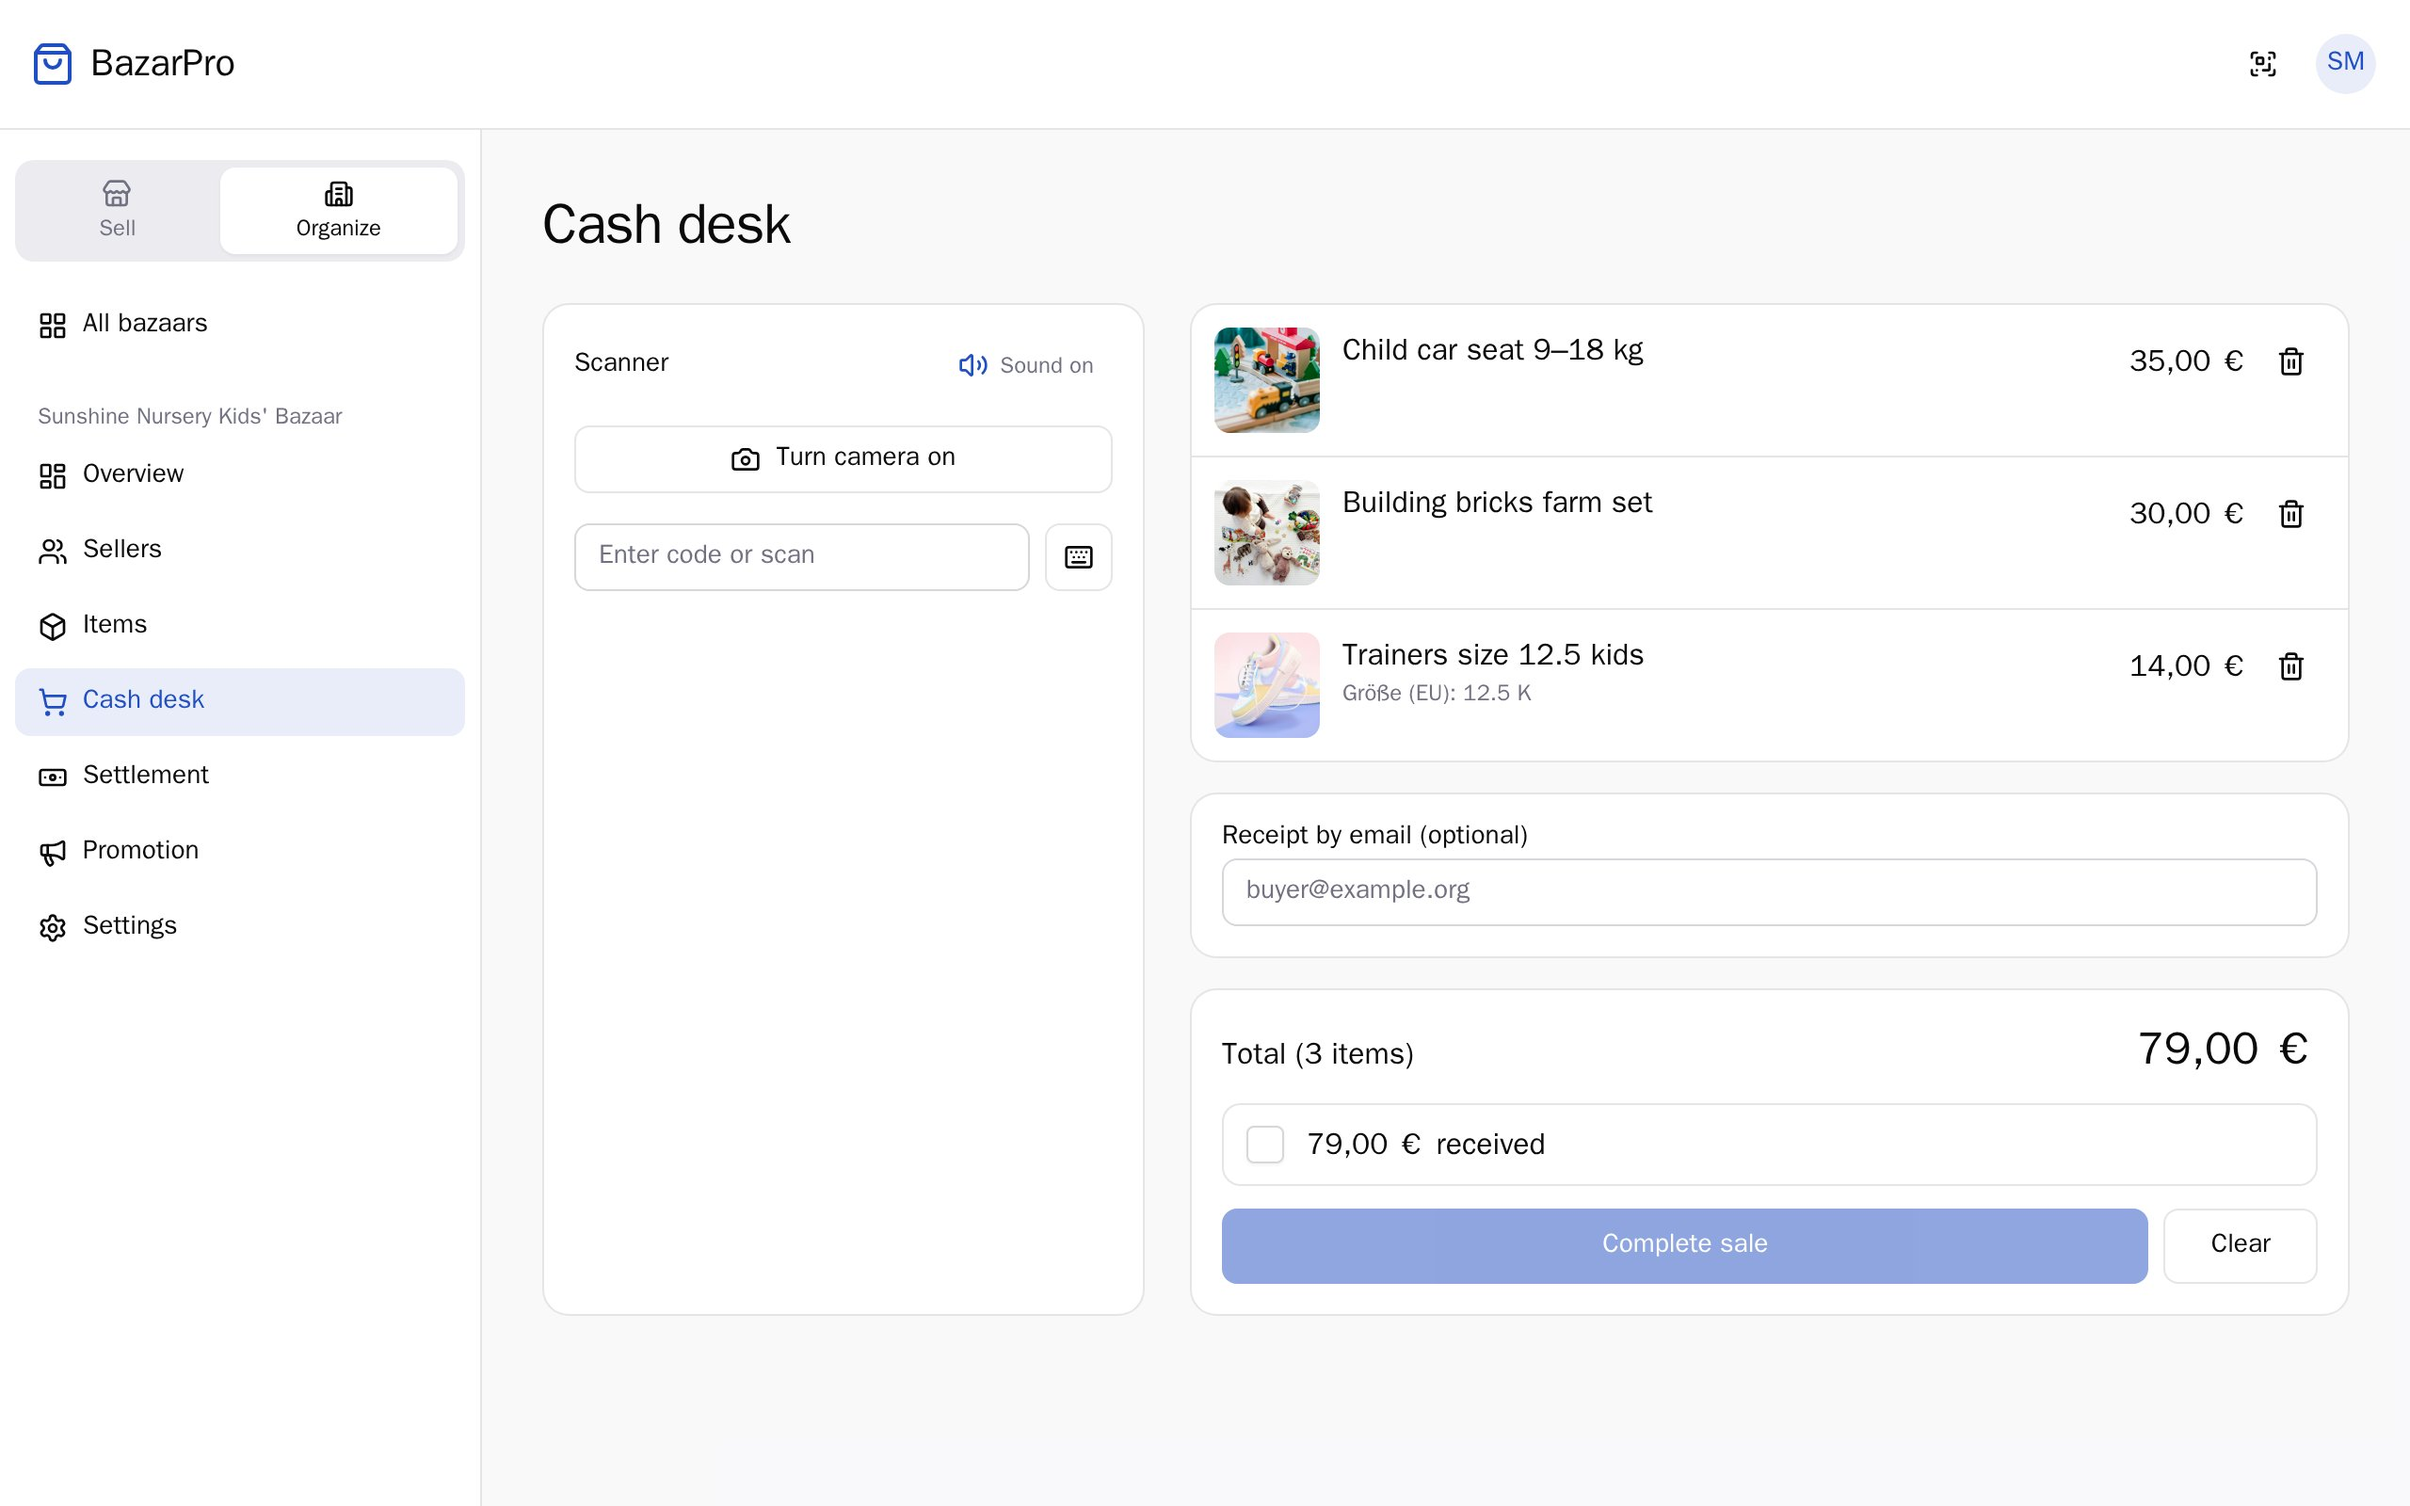
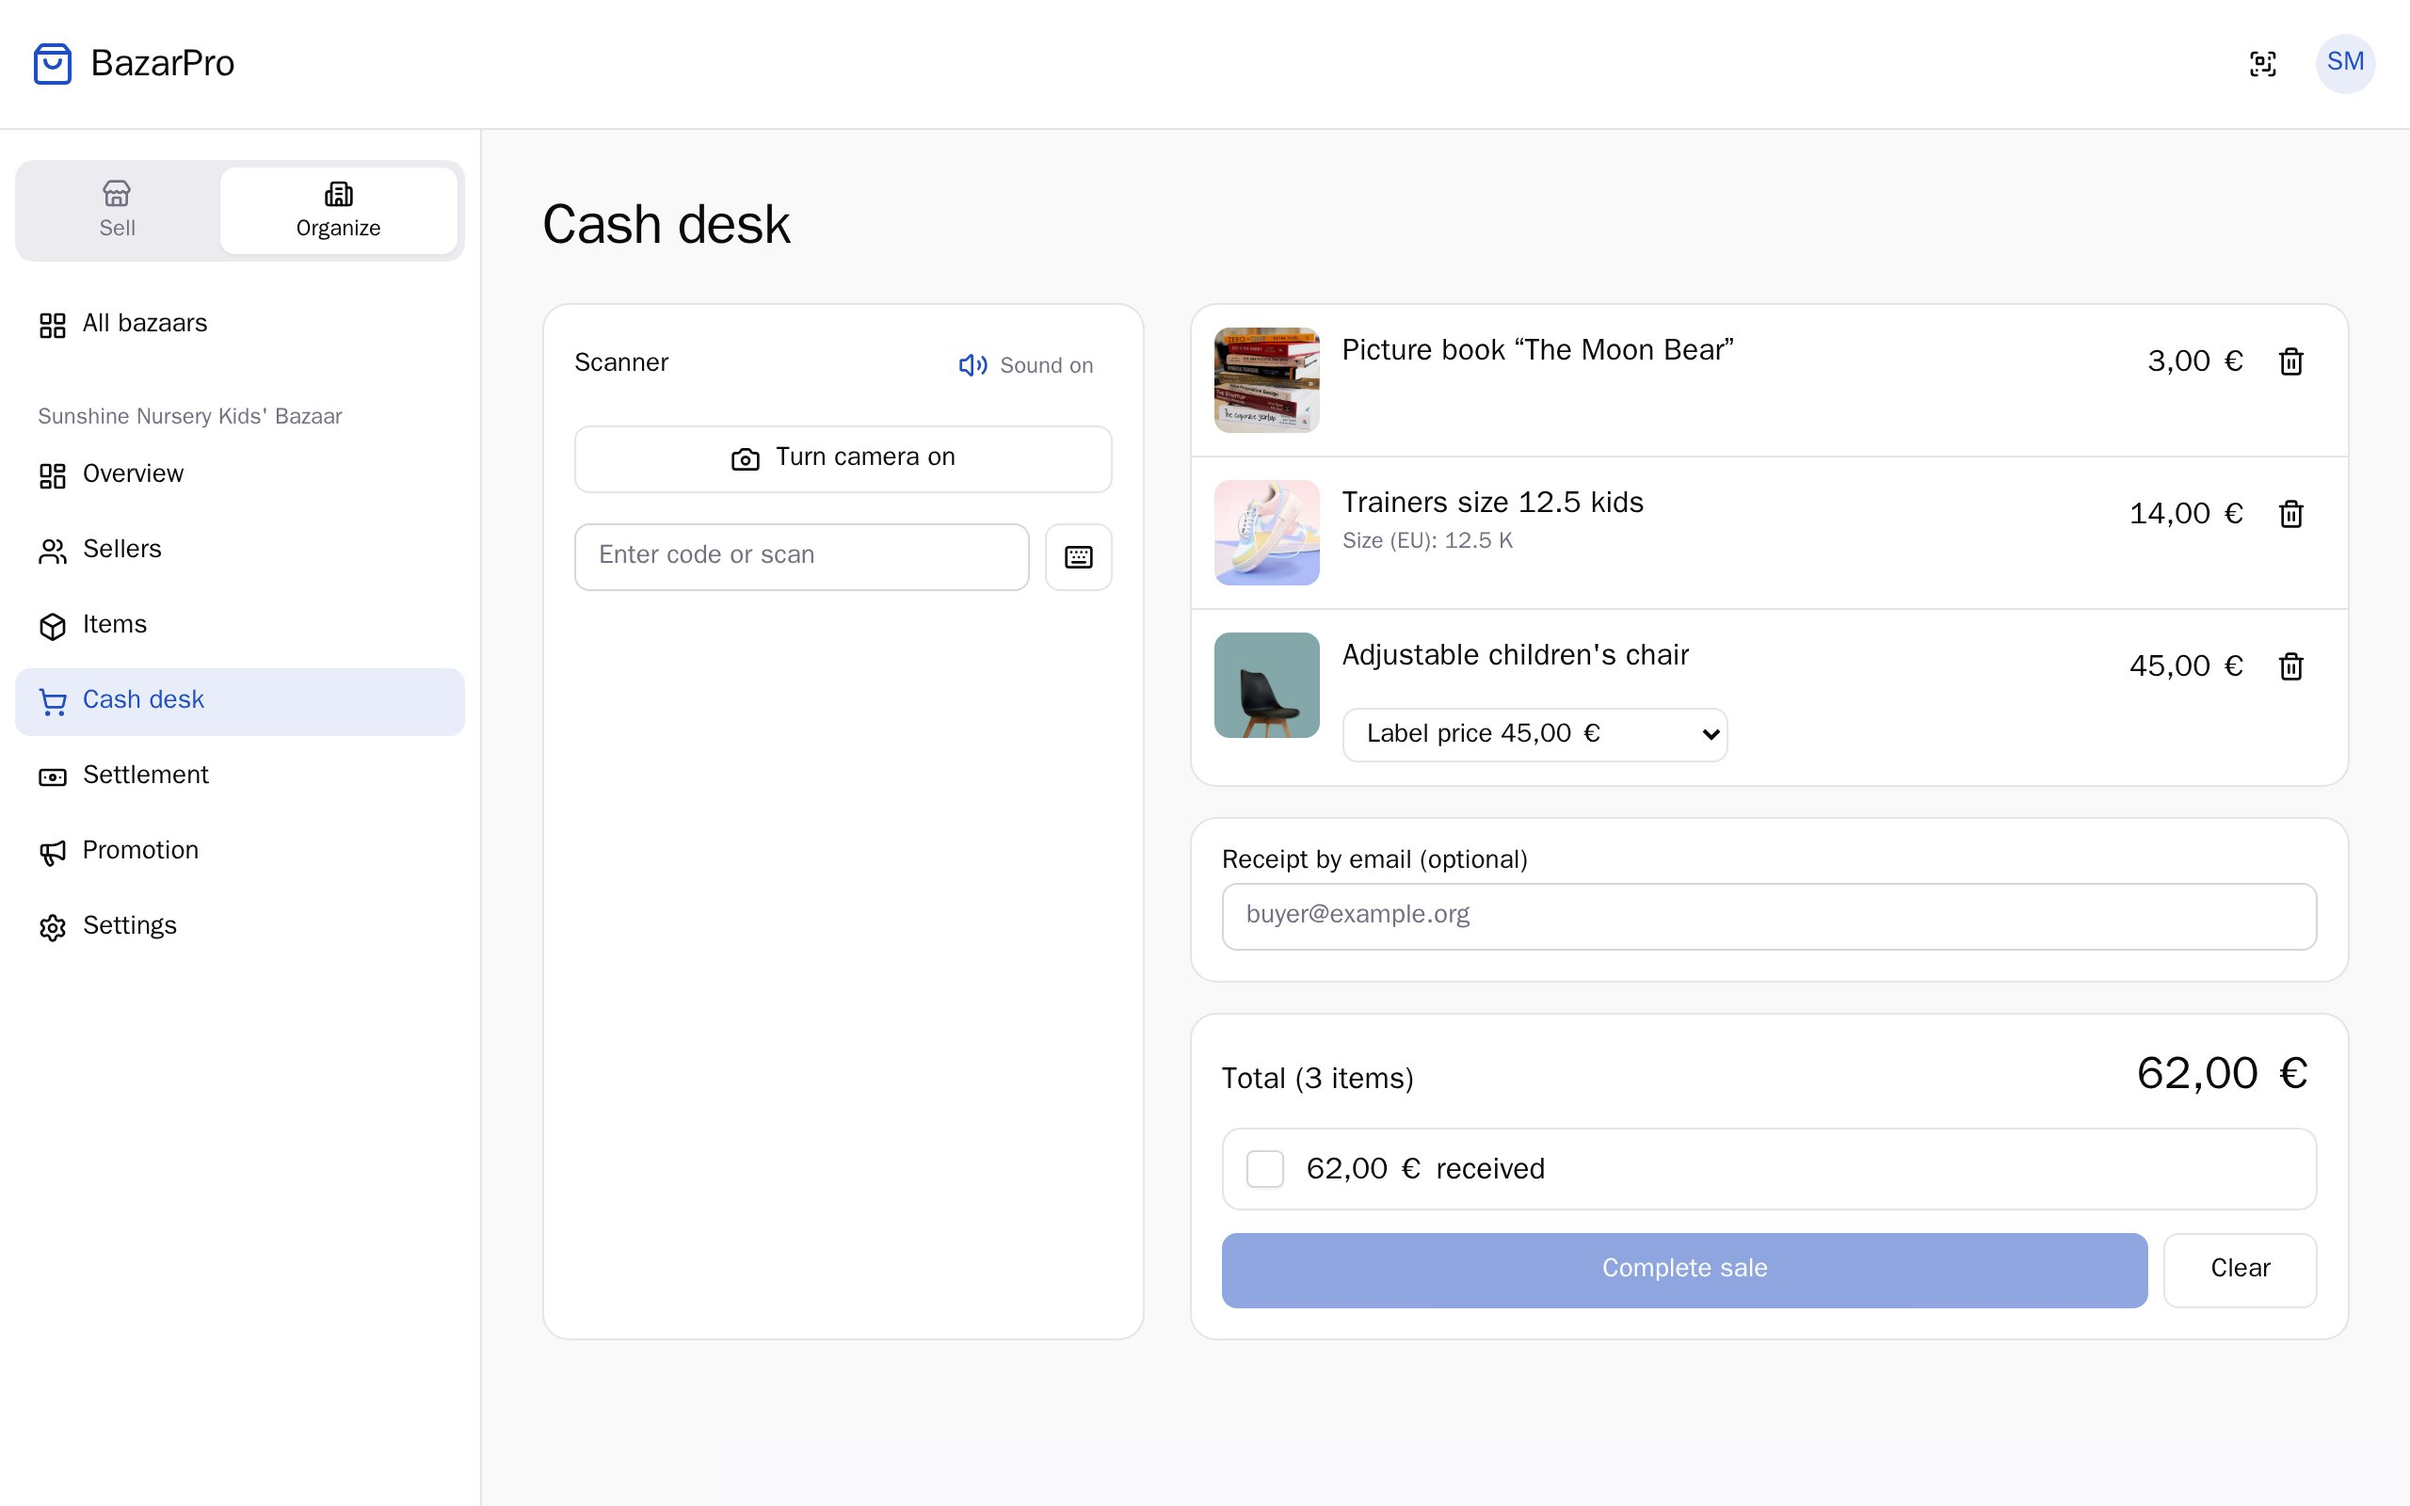
fix: own photos for pram and car seat, cash desk details in the app's language; English guides
- Demo data: the pram and the child car seat showed the wooden railway (the symbol
  photo of "other"); they get photos of their own
- Cash desk: labels of item details in English when the app is (labelEn), like the
  product page and the proof of offers already do
- README and docs link the English guides (docs.bazarpro.de/en/)
- Screenshots taken again

diff --git a/src/pages/organizer/events/dashboard/CheckoutPage.test.tsx b/src/pages/organizer/events/dashboard/CheckoutPage.test.tsx
@@ -9,6 +9,7 @@ import { ApiError } from '../../../../lib/api/client';
 import { productIdFromCode } from '../../../../lib/checkout';
 import { OFFLINE_FLAG_KEY, resetOfflineCheckout } from '../../../../lib/offlineCheckout';
 import { CheckoutPage } from './CheckoutPage';
+import i18n from '../../../../i18n';
 
 vi.mock('../../../../lib/api/react', () => ({
   useQuery: vi.fn(),
@@ -51,7 +52,7 @@ const ITEMS: Record<string, object> = {
     listPrice: 9,
     sellerPaidOut: false,
     attributes: [
-      { label: 'Größe', value: '104' },
+      { label: 'Größe', labelEn: 'Size', value: '104' },
       { label: 'Farbe', value: 'Blau' },
     ],
     internalNote: 'Haken 12',
@@ -185,6 +186,20 @@ describe('CheckoutPage', () => {
     expect(within(line).getByText('Größe: 104')).toBeInTheDocument();
     expect(within(line).getByText('Farbe: Blau')).toBeInTheDocument();
     expect(within(line).getByText('Haken 12')).toBeInTheDocument();
+  });
+
+  it('names the details of an item in the language of the app', async () => {
+    await i18n.changeLanguage('en');
+    try {
+      renderPage();
+      scan('jack');
+      const line = screen.getByTestId('checkout-line');
+      expect(within(line).getByText('Size: 104')).toBeInTheDocument();
+      // Without an English label the German one stays
+      expect(within(line).getByText('Farbe: Blau')).toBeInTheDocument();
+    } finally {
+      await i18n.changeLanguage('de');
+    }
   });
 
   it('adds scanned items once, sums the current prices and sells them together', async () => {

diff --git a/src/pages/organizer/events/dashboard/CheckoutPage.tsx b/src/pages/organizer/events/dashboard/CheckoutPage.tsx
@@ -30,6 +30,7 @@ import { QRCodeScanner } from '../../../../components/ui/QRCodeScanner';
 import { getUserFacingErrorMessage } from '../../../../lib/errors';
 import { cn, formatPriceDE } from '../../../../lib/utils';
 import { Trans, useTranslation } from 'react-i18next';
+import { categoryFieldText } from '../../../../i18n/categoryFields';
 import { useEventAccess } from '../../../../hooks/useEventAccess';
 import { PageSkeleton } from '../../../../components/ui/loading';
 import {
@@ -695,7 +696,9 @@ function CartLine({
       feeCapLeft: item.feeCapLeft,
       commissionPercent: item.commissionPercent,
       invoice: {
-        description: item.attributes.map((a) => `${a.label}: ${a.value}`).join(', '),
+        description: item.attributes
+          .map((a) => `${categoryFieldText(a, 'label') ?? a.label}: ${a.value}`)
+          .join(', '),
         image: item.image ?? undefined,
         price: item.price,
         discountPercent: item.discountPercent ?? undefined,
@@ -776,7 +779,7 @@ function CartLine({
               <ul className="flex flex-wrap gap-x-3 text-xs text-muted-foreground">
                 {item.attributes.map((attribute) => (
                   <li key={attribute.label} className="[overflow-wrap:anywhere]">
-                    {attribute.label}: {attribute.value}
+                    {categoryFieldText(attribute, 'label') ?? attribute.label}: {attribute.value}
                   </li>
                 ))}
               </ul>

diff --git a/backend/src/demo/catalog.rs b/backend/src/demo/catalog.rs
@@ -39,6 +39,8 @@ pub const IMAGES: &[(&str, &str)] = &[
     ("books", "photo-1512820790803-83ca734da794"),
     ("robots", "photo-1558060370-d644479cb6f7"),
     ("wooden_train", "photo-1596461404969-9ae70f2830c1"),
+    ("pram", "photo-1528121108018-743eef2e4a7a"),
+    ("car_seat", "photo-1619719287848-883c8f26efbc"),
     ("toys", "photo-1515488042361-ee00e0ddd4e4"),
     ("sofa", "photo-1555041469-a586c61ea9bc"),
     ("chair", "photo-1592078615290-033ee584e267"),
@@ -609,7 +611,7 @@ pub const KIDS: &[Item] = &[
             Cat::Other,
             "good",
             140.0,
-            None,
+            Some("pram"),
             t("Kinderwagen mit Babywanne", "Pram with carrycot"),
             t(
                 "Luftreifen, Regenverdeck und Wickeltasche dabei.",
@@ -638,7 +640,7 @@ pub const KIDS: &[Item] = &[
         Cat::Other,
         "good",
         35.0,
-        None,
+        Some("car_seat"),
         t("Autokindersitz 9–18 kg", "Child car seat 9–18 kg"),
         t(
             "Unfallfrei, Bezug gewaschen.",

diff --git a/README.md b/README.md
@@ -12,7 +12,7 @@ Sellers list their items at home and print QR labels. At the bazaar every phone 
 [![License: MIT](https://img.shields.io/badge/License-MIT-yellow.svg)](./LICENSE)
 [![Docs](https://img.shields.io/badge/Docs-docs.bazarpro.de-1d3fe0.svg)](https://docs.bazarpro.de)
 
-[**Try the demo**](https://demo.bazarpro.de) · [Website](https://bazarpro.de) · [Guides (German)](https://docs.bazarpro.de) · [Self-hosting](#self-hosting)
+[**Try the demo**](https://demo.bazarpro.de) · [Website](https://bazarpro.de) · [Guides](https://docs.bazarpro.de/en/) · [Self-hosting](#self-hosting)
 
 <img src="docs/screenshots/landing.jpg" alt="BazarPro landing page" width="860" />
 
@@ -63,7 +63,7 @@ curl -o .env https://raw.githubusercontent.com/BazarPro/bazarpro/main/.env.selfh
 docker compose -f docker-compose.selfhost.yml up -d
 ```
 
-The stack contains Traefik (HTTPS via Let's Encrypt), PostgreSQL, the backend and the web app, all under one domain. The account in `ADMIN_EMAIL` becomes administrator once it has signed up. Step-by-step guide (German): [docs.bazarpro.de/selbst-hosten](https://docs.bazarpro.de/selbst-hosten/).
+The stack contains Traefik (HTTPS via Let's Encrypt), PostgreSQL, the backend and the web app, all under one domain. The account in `ADMIN_EMAIL` becomes administrator once it has signed up. Step-by-step guide: [English](https://docs.bazarpro.de/en/selbst-hosten/) · [Deutsch](https://docs.bazarpro.de/selbst-hosten/).
 
 The iOS and Android apps can switch to a self-hosted server, see [docs/mobile-app.md](./docs/mobile-app.md).
 
@@ -83,7 +83,7 @@ More in [docs/](./docs/README.md): [development and tests](./docs/development.md
 
 ## Contributing
 
-Issues and pull requests are welcome, see [CONTRIBUTING.md](./CONTRIBUTING.md). Code, commits and issues are in English; the app and the user guides are German and English. Please report security issues privately as described in [SECURITY.md](./SECURITY.md).
+Issues and pull requests are welcome, see [CONTRIBUTING.md](./CONTRIBUTING.md). Code, commits and issues are in English; the app and the user guides are in German and English. Please report security issues privately as described in [SECURITY.md](./SECURITY.md).
 
 ## License
 

diff --git a/docs/README.md b/docs/README.md
@@ -1,7 +1,7 @@
 # Documentation for developers and operators
 
 Guides for organizers, sellers and people who self-host BazarPro are on
-[docs.bazarpro.de](https://docs.bazarpro.de) (German, [source](https://github.com/BazarPro/docs)).
+[docs.bazarpro.de](https://docs.bazarpro.de/en/) (English and German, [source](https://github.com/BazarPro/docs)).
 This folder is about the code and its operation:
 
 | File                                         | Contents                                                                  |

diff --git a/docs/deployment.md b/docs/deployment.md
@@ -2,7 +2,7 @@
 
 Self-hosting a single instance with `docker-compose.selfhost.yml` is described in the
 [README](../README.md#self-hosting) and, step by step, on
-[docs.bazarpro.de/selbst-hosten](https://docs.bazarpro.de/selbst-hosten/). This page is about
+[docs.bazarpro.de/en/selbst-hosten](https://docs.bazarpro.de/en/selbst-hosten/). This page is about
 bazarpro.de itself: production, review apps and the demo instance, all deployed by the
 [pipeline](./pipeline.md) with Ansible.
 
